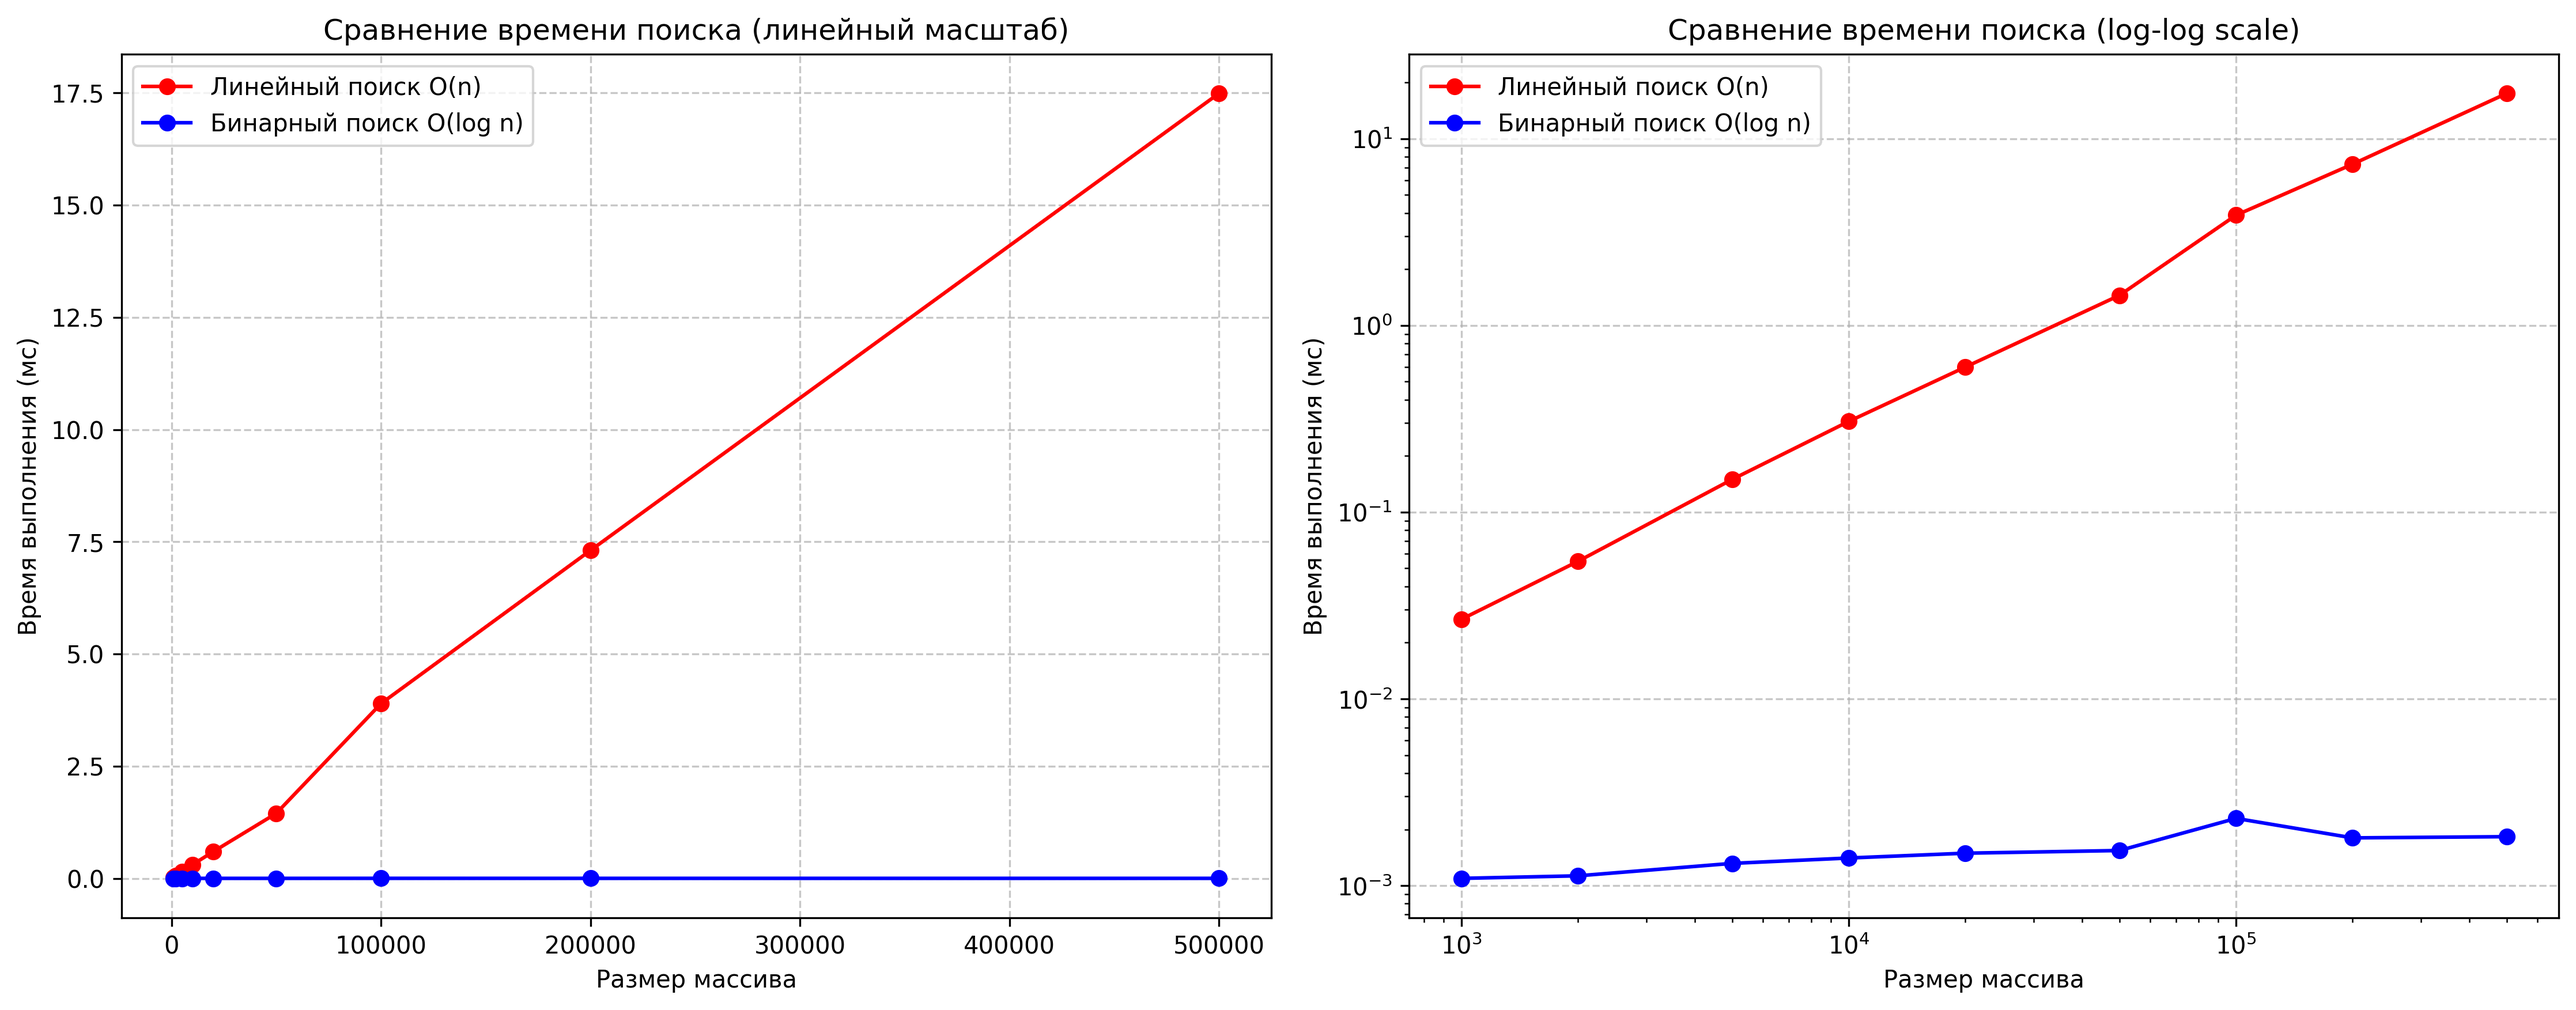
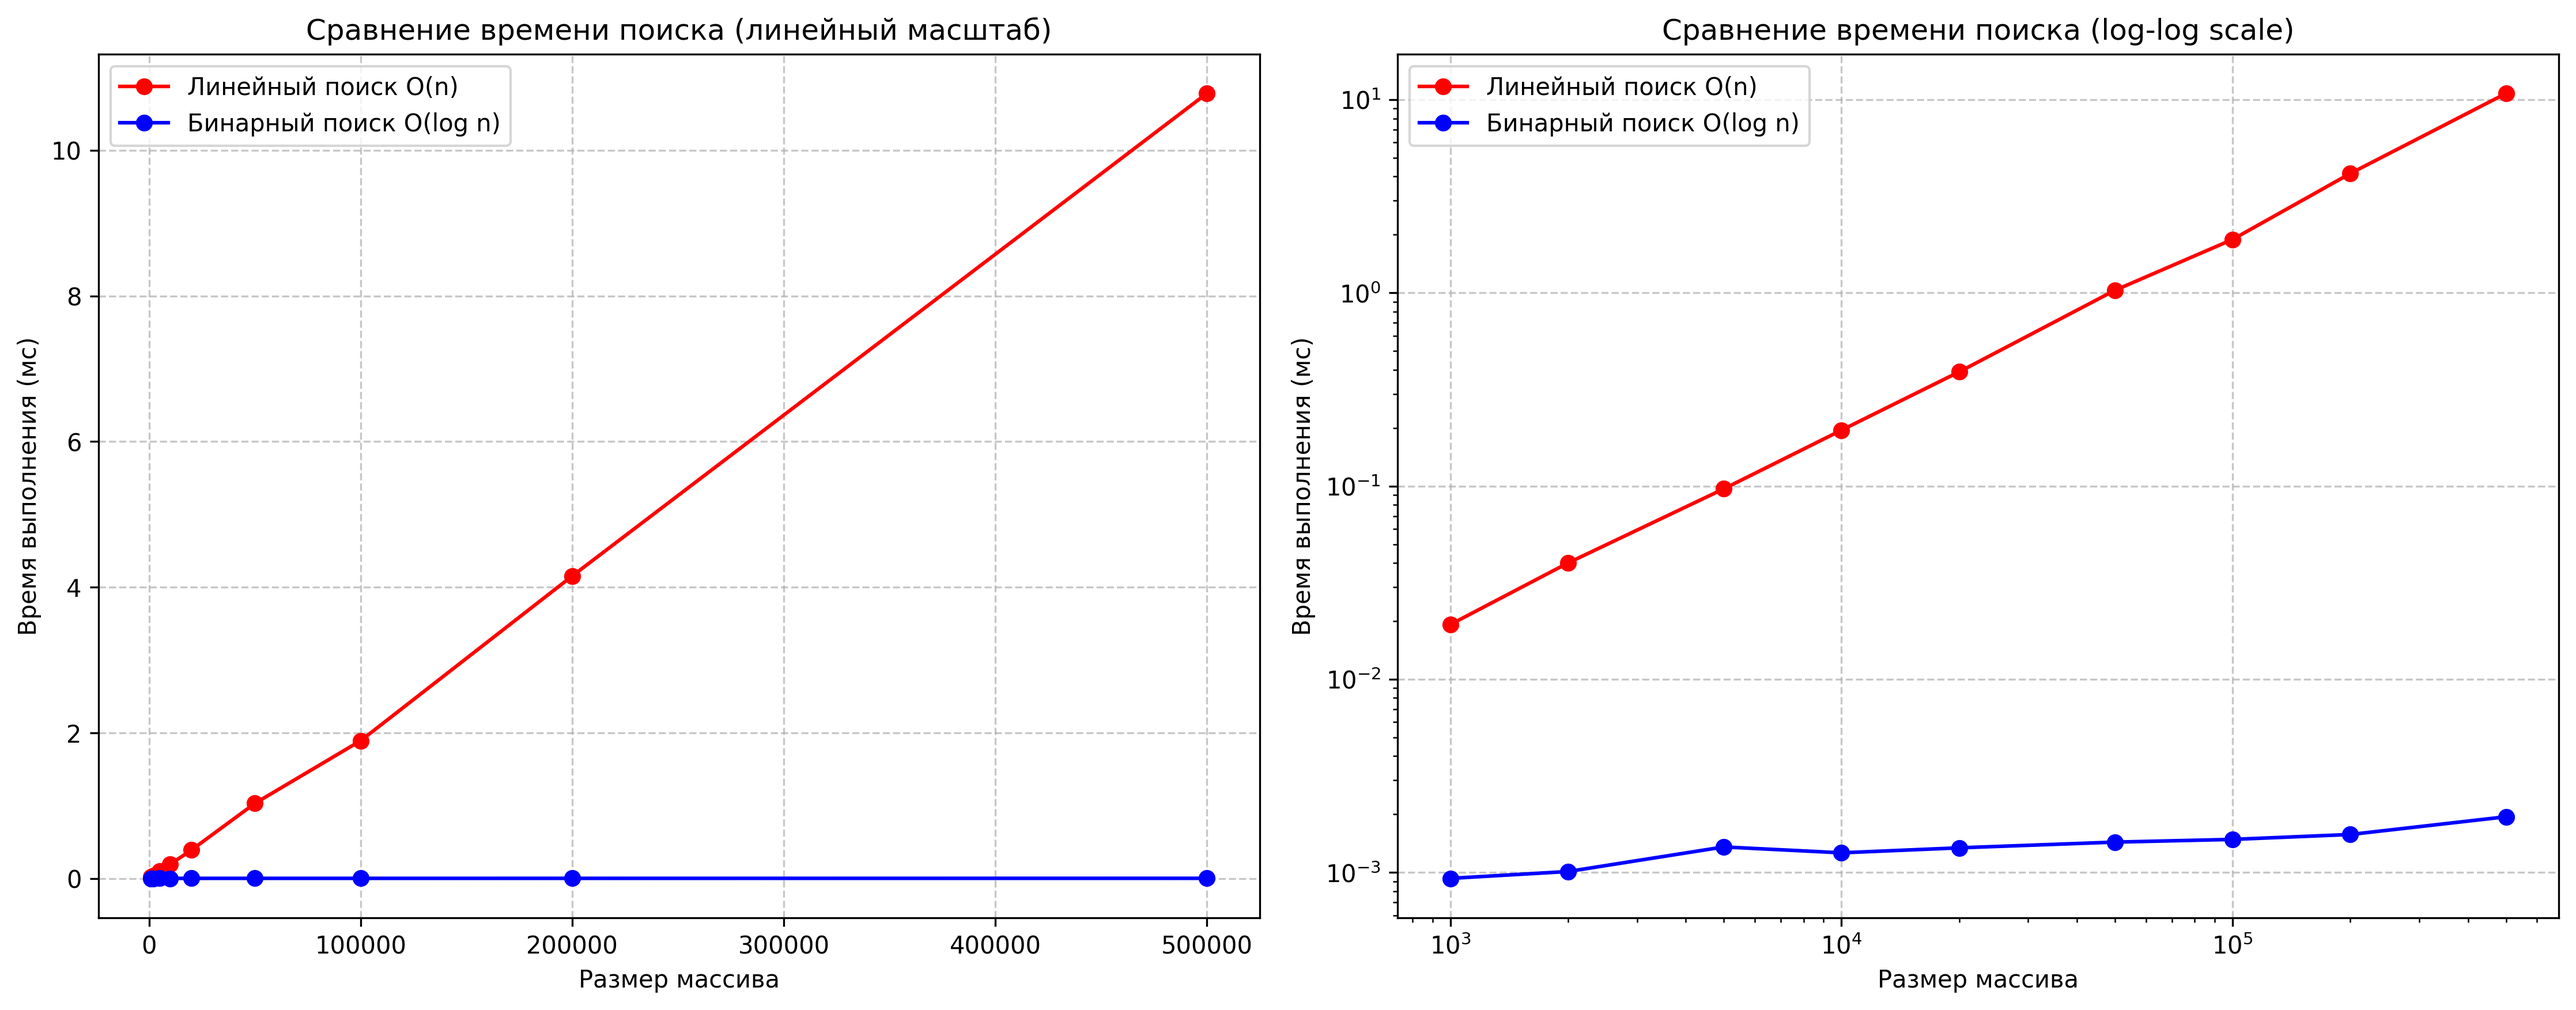
correction of defects

diff --git a/python_01/search_comparison.py b/python_01/search_comparison.py
@@ -135,12 +135,17 @@ def main():
         # Генерация тестовых данных
         arr = generate_test_data(size)
 
-        # Измерение времени для линейного поиска (поиск последнего элемента)
-        linear_time = measure_time(linear_search, arr, arr[-1])
+        # Получаем тестовые цели
+        test_cas = get_test_cases(arr)
+
+        # Линейный поиск: усредняем время по всем кейсам
+        total_time = sum(measure_time(linear_search, arr, t) for t in test_cas)
+        linear_time = total_time / len(test_cas)
         linear_times.append(linear_time)
 
-        # Измерение времени для бинарного поиска (поиск последнего элемента)
-        binary_time = measure_time(binary_search, arr, arr[-1])
+        # Бинарный поиск: усредняем время по всем кейсам
+        total_binary_time = sum(measure_time(binary_search, arr, t) for t in test_cas)
+        binary_time = total_binary_time / len(test_cas)
         binary_times.append(binary_time)
 
         # Вывод результатов

diff --git a/python_01/readme.md b/python_01/readme.md
@@ -67,15 +67,15 @@
 ---------------------------------------------
 Размер | Линейный (мс) | Бинарный (мс) | Отношение
 
-       1000 |       0.0313 |       0.0011 |     27.8x
-       2000 |       0.0636 |       0.0013 |     47.9x
-       5000 |       0.1565 |       0.0021 |     74.9x
-      10000 |       0.3260 |       0.0018 |    183.1x
-      20000 |       0.6833 |       0.0021 |    323.2x
-      50000 |       1.8805 |       0.0018 |   1024.2x
-     100000 |       3.6055 |       0.0017 |   2065.0x
-     200000 |       7.4454 |       0.0018 |   4129.5x
-     500000 |      18.3951 |       0.0019 |   9691.8x
+  1000 |       0.0171 |       0.0009 |     18.2x
+  2000 |       0.0371 |       0.0011 |     33.1x
+  5000 |       0.0936 |       0.0012 |     78.2x
+ 10000 |       0.1926 |       0.0012 |    154.4x
+ 20000 |       0.3833 |       0.0014 |    283.0x
+ 50000 |       1.1104 |       0.0014 |    771.6x
+100000 |       1.9949 |       0.0016 |   1284.9x
+200000 |       4.2655 |       0.0016 |   2708.2x
+500000 |      11.0120 |       0.0017 |   6573.4x
 
 ##  Визуализация
 
